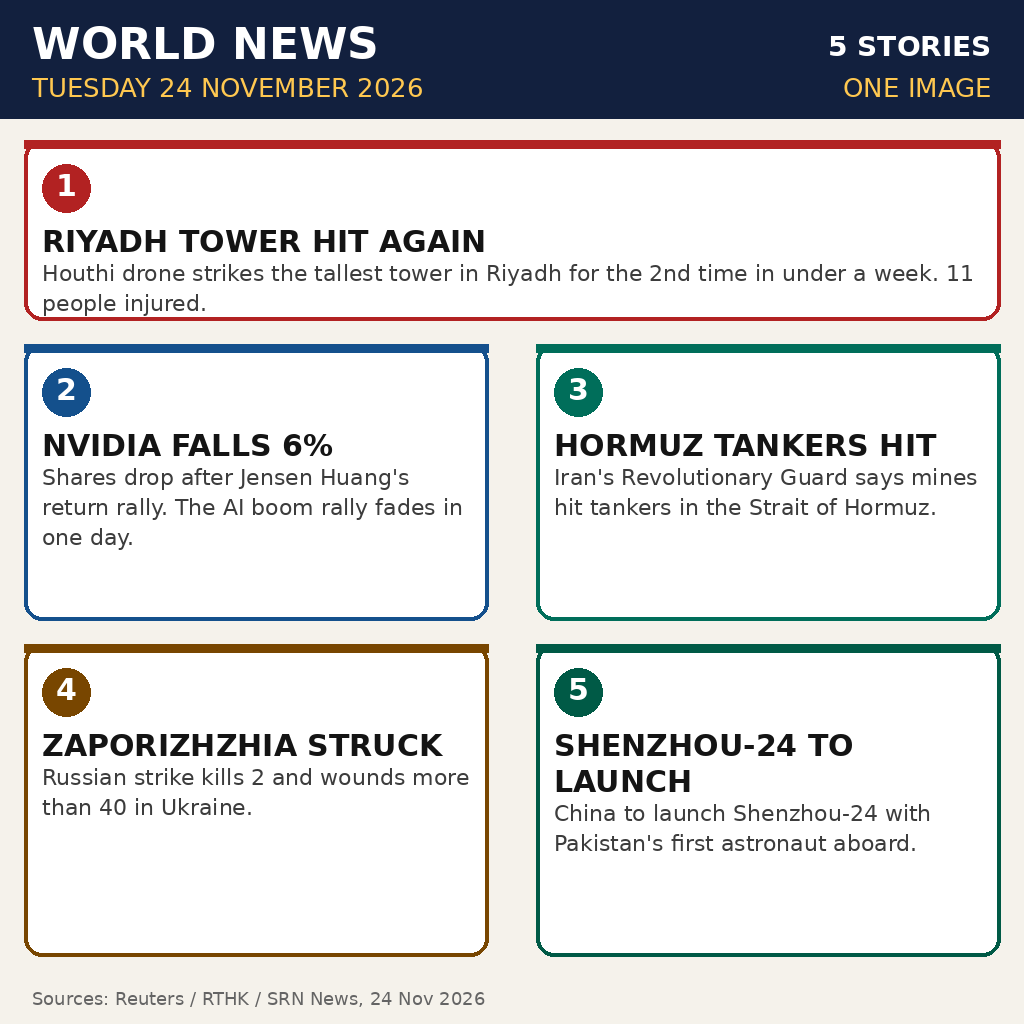
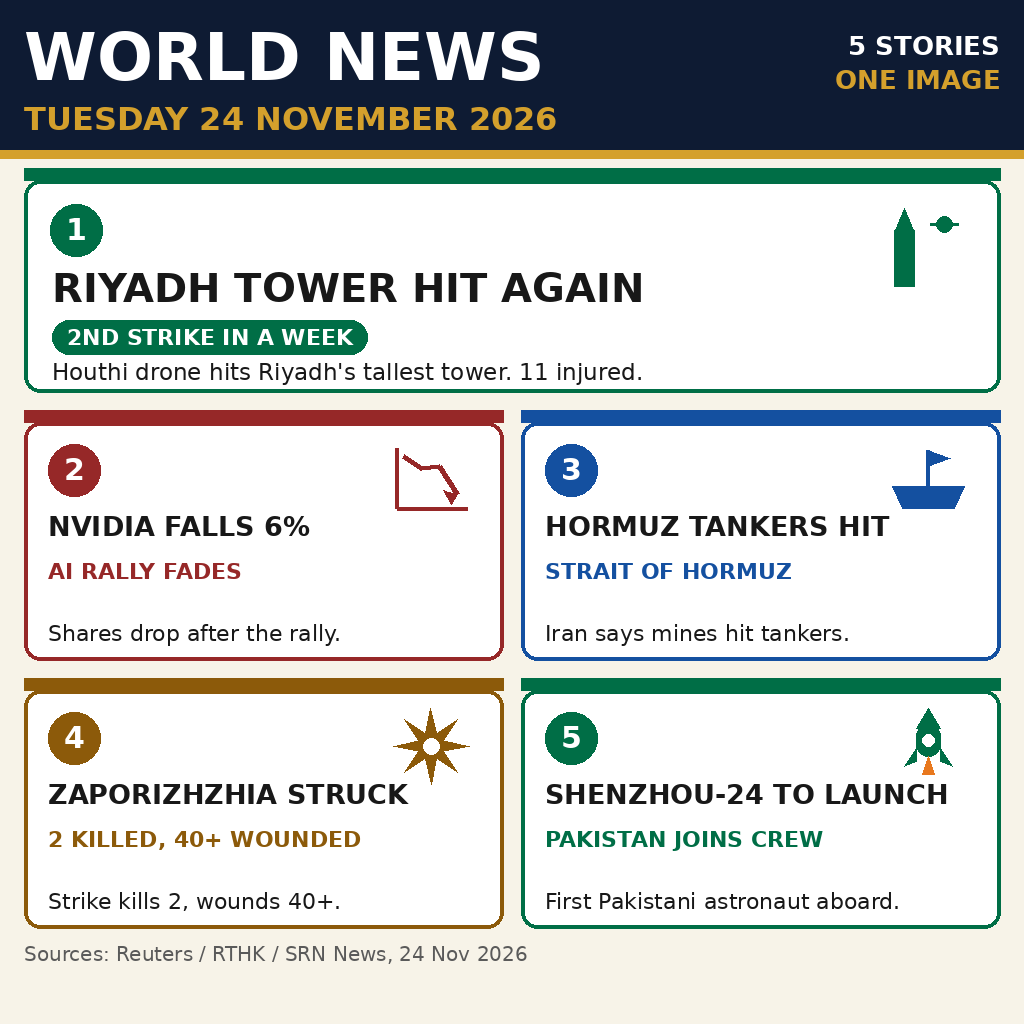
Add files via upload

Changed region(s): [[0.0, 0.0, 1.0, 0.9375], [0.0312, 0.9688, 0.4688, 1.0]]

diff --git a/build_image.py b/build_image.py
@@ -1,53 +1,200 @@
+#!/usr/bin/env python3
+"""Draw the 24 November 2026 world-news summary image (1024x1024 PNG).
+
+One file, no network, no randomness: running it twice writes byte-identical
+output. Layout: a navy header with the date, one wide lead card, then a
+2x2 grid of four more stories. Each story has a number, a big title, a bold
+accent stat line, one short body line, and a small geometric icon drawn with
+plain Pillow shapes.
+"""
+
+import math
+
 from PIL import Image, ImageDraw, ImageFont
-import os
-W=H=1024
-img=Image.new("RGB",(W,H),(245,242,235))
-d=ImageDraw.Draw(img)
-def font(size,bold=False):
-    p="/usr/share/fonts/truetype/dejavu/DejaVuSans-Bold.ttf" if bold else "/usr/share/fonts/truetype/dejavu/DejaVuSans.ttf"
-    return ImageFont.truetype(p,size)
-def wrap(text,f,maxw,draw):
-    words=text.split(); lines=[]; cur=""
-    for w in words:
-        t=(cur+" "+w).strip()
-        if draw.textlength(t,font=f)<=maxw: cur=t
-        else:
-            if cur: lines.append(cur)
-            cur=w
-    if cur: lines.append(cur)
-    return lines
-# header
-d.rectangle([0,0,W,118],fill=(18,32,62))
-d.text((32,18),"WORLD NEWS",font=font(44,True),fill=(255,255,255))
-d.text((32,72),"TUESDAY 24 NOVEMBER 2026",font=font(26),fill=(255,200,80))
-d.text((W-32,30),"5 STORIES",font=font(28,True),fill=(255,255,255),anchor="ra")
-d.text((W-32,72),"ONE IMAGE",font=font(26),fill=(255,200,80),anchor="ra")
-panels=[
- ("RIYADH TOWER HIT AGAIN","Houthi drone strikes the tallest tower in Riyadh for the 2nd time in under a week. 11 people injured.",(178,34,34)),
- ("NVIDIA FALLS 6%","Shares drop after Jensen Huang's return rally. The AI boom rally fades in one day.",(20,80,140)),
- ("HORMUZ TANKERS HIT","Iran's Revolutionary Guard says mines hit tankers in the Strait of Hormuz.",(0,110,90)),
- ("ZAPORIZHZHIA STRUCK","Russian strike kills 2 and wounds more than 40 in Ukraine.",(120,70,0)),
- ("SHENZHOU-24 TO LAUNCH","China to launch Shenzhou-24 with Pakistan's first astronaut aboard.",(0,90,70)),
+
+W, H = 1024, 1024
+
+PAPER = (247, 243, 232)      # warm off-white background
+NAVY = (14, 27, 51)         # header band
+GOLD = (212, 160, 44)       # date line + rules
+INK = (24, 24, 24)          # main text
+CARD = (255, 255, 255)      # card fill
+GREY = (90, 90, 90)         # footer text
+
+FONT_BOLD = "/usr/share/fonts/truetype/dejavu/DejaVuSans-Bold.ttf"
+FONT_REG = "/usr/share/fonts/truetype/dejavu/DejaVuSans.ttf"
+
+
+def font(path, size):
+    return ImageFont.truetype(path, size)
+
+
+def text_w(draw, s, f):
+    return draw.textlength(s, font=f)
+
+
+def rounded_card(draw, box, fill, outline, width):
+    draw.rounded_rectangle(box, radius=16, fill=fill, outline=outline,
+                           width=width)
+
+
+def number_badge(draw, cx, cy, n, color):
+    r = 26
+    draw.ellipse([cx - r, cy - r, cx + r, cy + r], fill=color)
+    f = font(FONT_BOLD, 30)
+    draw.text((cx, cy), str(n), font=f, fill=(255, 255, 255), anchor="mm")
+
+
+def chip(draw, x, y, label, color):
+    """Filled pill with white bold text; returns its width."""
+    f = font(FONT_BOLD, 22)
+    w = int(text_w(draw, label, f)) + 30
+    h = 34
+    draw.rounded_rectangle([x, y, x + w, y + h], radius=17, fill=color)
+    draw.text((x + 15, y + h // 2), label, font=f, fill=(255, 255, 255),
+              anchor="lm")
+    return w
+
+
+def icon_tower(draw, x, y, color):
+    # A tall tower: shaft, spire, and a small drone dot above.
+    draw.rectangle([x + 14, y + 22, x + 34, y + 78], fill=color)
+    draw.polygon([(x + 24, y), (x + 14, y + 24), (x + 34, y + 24)],
+                 fill=color)
+    draw.ellipse([x + 56, y + 8, x + 72, y + 24], fill=color)
+    draw.line([x + 50, y + 16, x + 78, y + 16], fill=color, width=3)
+
+
+def icon_chart_down(draw, x, y, color):
+    # Axes and a falling line with an arrowhead.
+    draw.line([x + 6, y + 70, x + 6, y + 10], fill=color, width=4)
+    draw.line([x + 6, y + 70, x + 76, y + 70], fill=color, width=4)
+    pts = [(x + 12, y + 18), (x + 30, y + 30), (x + 48, y + 28),
+           (x + 66, y + 56)]
+    draw.line(pts, fill=color, width=5, joint="curve")
+    draw.polygon([(x + 66, y + 56), (x + 52, y + 52), (x + 60, y + 66)],
+                 fill=color)
+
+
+def icon_ship(draw, x, y, color):
+    # Hull, mast and a small flag.
+    draw.polygon([(x + 4, y + 48), (x + 76, y + 48), (x + 66, y + 70),
+                  (x + 14, y + 70)], fill=color)
+    draw.line([x + 40, y + 48, x + 40, y + 12], fill=color, width=4)
+    draw.polygon([(x + 40, y + 12), (x + 62, y + 20), (x + 40, y + 28)],
+                 fill=color)
+
+
+def icon_blast(draw, x, y, color):
+    # Eight-point starburst.
+    cx, cy = x + 40, y + 40
+    outer, inner = 38, 14
+    pts = []
+    for i in range(16):
+        r = outer if i % 2 == 0 else inner
+        a = 3.14159265 * i / 8.0
+        pts.append((cx + r * math.cos(a), cy + r * math.sin(a)))
+    draw.polygon(pts, fill=color)
+    draw.ellipse([cx - 8, cy - 8, cx + 8, cy + 8], fill=(255, 255, 255))
+
+
+def icon_rocket(draw, x, y, color):
+    # Body, nose cone, fins and a flame. Fits in a 70px-tall box so it
+    # never reaches the card title below it.
+    draw.rounded_rectangle([x + 28, y + 18, x + 52, y + 50], radius=12,
+                           fill=color)
+    draw.polygon([(x + 40, y + 2), (x + 28, y + 22), (x + 52, y + 22)],
+                 fill=color)
+    draw.polygon([(x + 28, y + 42), (x + 16, y + 60), (x + 28, y + 55)],
+                 fill=color)
+    draw.polygon([(x + 52, y + 42), (x + 64, y + 60), (x + 52, y + 55)],
+                 fill=color)
+    draw.polygon([(x + 40, y + 50), (x + 34, y + 68), (x + 46, y + 68)],
+                 fill=(232, 120, 30))
+    draw.ellipse([x + 34, y + 28, x + 46, y + 40], fill=(255, 255, 255))
+
+
+ICONS = [icon_tower, icon_chart_down, icon_ship, icon_blast, icon_rocket]
+
+STORIES = [
+    dict(n=1, accent=(0, 110, 70), title="RIYADH TOWER HIT AGAIN",
+         stat="2ND STRIKE IN A WEEK",
+         body="Houthi drone hits Riyadh's tallest tower. 11 injured.",
+         lead=True),
+    dict(n=2, accent=(150, 40, 40), title="NVIDIA FALLS 6%",
+         stat="AI RALLY FADES", body="Shares drop after the rally."),
+    dict(n=3, accent=(20, 80, 160), title="HORMUZ TANKERS HIT",
+         stat="STRAIT OF HORMUZ", body="Iran says mines hit tankers."),
+    dict(n=4, accent=(140, 90, 10), title="ZAPORIZHZHIA STRUCK",
+         stat="2 KILLED, 40+ WOUNDED", body="Strike kills 2, wounds 40+."),
+    dict(n=5, accent=(0, 110, 70), title="SHENZHOU-24 TO LAUNCH",
+         stat="PAKISTAN JOINS CREW",
+         body="First Pakistani astronaut aboard."),
 ]
-# layout: panel0 full width, then 2x2
-boxes=[(24,140,1000,320),(24,344,488,620),(536,344,1000,620),(24,644,488,956),(536,644,1000,956)]
-for (title,body,color),(x0,y0,x1,y1) in zip(panels,boxes):
-    d.rounded_rectangle([x0,y0,x1,y1],radius=18,fill=(255,255,255),outline=color,width=4)
-    d.rectangle([x0,y0,x1,y0+8],fill=color)
-    # simple icon: coloured circle with number
-    idx=panels.index((title,body,color))+1
-    d.ellipse([x0+18,y0+24,x0+66,y0+72],fill=color)
-    d.text((x0+42,y0+28),str(idx),font=font(30,True),fill=(255,255,255),anchor="ma")
-    # title
-    tf=font(30,True) if (x1-x0)>400 else font(26,True)
-    lines=wrap(title,tf,x1-x0-36,d)
-    y=y0+84
-    for ln in lines:
-        d.text((x0+18,y),ln,font=tf,fill=(20,20,20)); y+=36
-    bf=font(22)
-    for ln in wrap(body,bf,x1-x0-36,d):
-        d.text((x0+18,y),ln,font=bf,fill=(60,60,60)); y+=30
-d.text((32,988),"Sources: Reuters / RTHK / SRN News, 24 Nov 2026",font=font(18),fill=(100,100,100))
-out=os.path.expanduser("~/workspace/makefun-news-20261124/asset.png")
-img.save(out,format="PNG",optimize=True)
-print(out, os.path.getsize(out))
+
+
+def draw_lead(draw, s):
+    x0, y0, x1, y1 = 24, 168, 1000, 392
+    accent = s["accent"]
+    draw.rectangle([x0, y0, x1, y0 + 12], fill=accent)
+    rounded_card(draw, [x0, y0 + 12, x1, y1], CARD, accent, 4)
+    number_badge(draw, x0 + 52, y0 + 62, s["n"], accent)
+    ICONS[0](draw, x1 - 120, y0 + 40, accent)
+    f_title = font(FONT_BOLD, 40)
+    draw.text((x0 + 28, y0 + 96), s["title"], font=f_title, fill=INK)
+    chip(draw, x0 + 28, y0 + 152, s["stat"], accent)
+    f_body = font(FONT_REG, 23)
+    draw.text((x0 + 28, y1 - 34), s["body"], font=f_body, fill=INK)
+
+
+def draw_grid_card(draw, s, x0, y0, x1, y1):
+    accent = s["accent"]
+    draw.rectangle([x0, y0, x1, y0 + 12], fill=accent)
+    rounded_card(draw, [x0, y0 + 12, x1, y1], CARD, accent, 4)
+    number_badge(draw, x0 + 50, y0 + 60, s["n"], accent)
+    ICONS[s["n"] - 1](draw, x1 - 112, y0 + 28, accent)
+    f_title = font(FONT_BOLD, 27)
+    draw.text((x0 + 24, y0 + 100), s["title"], font=f_title, fill=INK)
+    f_stat = font(FONT_BOLD, 22)
+    draw.text((x0 + 24, y0 + 148), s["stat"], font=f_stat, fill=accent)
+    f_body = font(FONT_REG, 22)
+    draw.text((x0 + 24, y1 - 40), s["body"], font=f_body, fill=INK)
+
+
+def main():
+    img = Image.new("RGB", (W, H), PAPER)
+    draw = ImageDraw.Draw(img)
+
+    # Header band.
+    draw.rectangle([0, 0, W, 150], fill=NAVY)
+    f_big = font(FONT_BOLD, 66)
+    draw.text((24, 18), "WORLD NEWS", font=f_big, fill=(255, 255, 255))
+    f_small = font(FONT_BOLD, 26)
+    draw.text((1000, 30), "5 STORIES", font=f_small, fill=(255, 255, 255),
+              anchor="ra")
+    draw.text((1000, 64), "ONE IMAGE", font=f_small, fill=GOLD, anchor="ra")
+    f_date = font(FONT_BOLD, 32)
+    draw.text((24, 100), "TUESDAY 24 NOVEMBER 2026", font=f_date, fill=GOLD)
+    draw.rectangle([0, 150, W, 158], fill=GOLD)
+
+    draw_lead(draw, STORIES[0])
+
+    gx, gy = 24, 410
+    cw, ch, gap = 479, 250, 18
+    grid = STORIES[1:]
+    for i, s in enumerate(grid):
+        cx = gx + (i % 2) * (cw + gap)
+        cy = gy + (i // 2) * (ch + gap)
+        draw_grid_card(draw, s, cx, cy, cx + cw, cy + ch)
+
+    f_foot = font(FONT_REG, 20)
+    draw.text((24, 942),
+              "Sources: Reuters / RTHK / SRN News, 24 Nov 2026",
+              font=f_foot, fill=GREY)
+
+    img.save("asset.png", "PNG")
+    print("Wrote asset.png (1024x1024)")
+
+
+if __name__ == "__main__":
+    main()

diff --git a/main.py b/main.py
@@ -1,9 +1,8 @@
-"""make.fun bounty: Sum up 24 November's world news in one image.
+#!/usr/bin/env python3
+"""Entry program: copy the bundled image to the output path.
 
-Writes one image to /output/entry.png.
-Deterministic: copies the bundled asset.png with no network,
-no timestamps and no randomness, so two runs write identical bytes.
-Only the Python standard library is used.
+Standard library only, no network. Reads asset.png next to this file and
+writes it to /output/entry.png (or $MAKEFUN_OUTPUT_DIR/entry.png).
 """
 
 import hashlib
@@ -12,16 +11,18 @@ import shutil
 import sys
 
 HERE = os.path.dirname(os.path.abspath(__file__))
-SRC = os.path.join(HERE, "asset.png")
-DST = "/output/entry.png"
 
 
 def main():
-    os.makedirs(os.path.dirname(DST), exist_ok=True)
-    shutil.copyfile(SRC, DST)
-    with open(DST, "rb") as f:
-        digest = hashlib.sha256(f.read()).hexdigest()
-    print(f"Wrote {DST} ({os.path.getsize(DST)} bytes, sha256 {digest})")
+    src = os.path.join(HERE, "asset.png")
+    out_dir = os.environ.get("MAKEFUN_OUTPUT_DIR", "/output")
+    os.makedirs(out_dir, exist_ok=True)
+    dst = os.path.join(out_dir, "entry.png")
+    shutil.copyfile(src, dst)
+    with open(dst, "rb") as fh:
+        digest = hashlib.sha256(fh.read()).hexdigest()
+    size = os.path.getsize(dst)
+    print(f"Wrote {dst} ({size} bytes, sha256 {digest})")
     return 0
 
 

diff --git a/README.md b/README.md
@@ -1,38 +1,54 @@
 # Sum up 24 November's world news in one image
 
-Entry for https://make.fun/bounty/news-image-20261124
+[![make.fun](https://make.fun/badge/news-image-20261124.svg)](https://make.fun/bounty/news-image-20261124)
+[![Rank](https://make.fun/badge/news-image-20261124/rank.svg)](https://make.fun/bounty/news-image-20261124)
+[![Reward](https://make.fun/badge/news-image-20261124/reward.svg)](https://make.fun/bounty/news-image-20261124)
+[![Rank](https://make.fun/badge/news-image-20261124/z451783818/makefun-news-20261124/rank.svg)](https://make.fun/bounty/news-image-20261124/leaderboard)
+[![Reward](https://make.fun/badge/news-image-20261124/z451783818/makefun-news-20261124/reward.svg)](https://make.fun/bounty/news-image-20261124/leaderboard)
 
-- Reward: $100 total, 50 places paid (1st $20, 2nd $12, 3rd $6, 4th-10th $2 each, 11th-50th $1.20 each)
-- Deadline: Thu 2026-11-26 00:00 UTC (08:00 CST)
-- Free to enter, no entry fee
+Entry for [Sum up 24 November's world news in one image](https://make.fun/bounty/news-image-20261124) — $100 total, 50 places paid (1st $20, 2nd $12, 3rd $6, 4th–10th $2 each, 11th–50th $1.20 each). Deadline: Thu 2026-11-26 00:00 UTC (08:00 CST). Free to enter, no entry fee.
 
 ## What it does
 
-`main.py` (Python 3.13, standard library only, no network) copies
-the bundled `asset.png` to `/output/entry.png`.
+`main.py` (Python 3.13, standard library only, no network) copies the
+bundled `asset.png` to `/output/entry.png`.
 
-The image is a 1024x1024 PNG, 78,552 bytes, with five labelled stories
-from Tuesday 24 November 2026:
+The image is a 1024x1024 PNG with five labelled stories from
+Tuesday 24 November 2026:
 
-1. Riyadh tower hit again — Houthi drone, 2nd strike in under a week, 11 injured
-2. Nvidia falls 6% — after Jensen Huang's return rally
+1. Riyadh tower hit again — a Houthi drone hits Riyadh's tallest tower
+   (PIF Tower) for the second time in a week; at least 11 injured.
+2. Nvidia falls 6% — shares drop about 6% on 24 Nov as the AI rally fades.
 3. Hormuz tankers hit — Iran's Revolutionary Guard says mines hit tankers
-4. Zaporizhzhia struck — Russian strike kills 2, wounds 40+ in Ukraine
-5. Shenzhou-24 to launch — China to launch with Pakistan's first astronaut aboard
+   in the Strait of Hormuz.
+4. Zaporizhzhia struck — a Russian strike kills 2 and wounds 40+ in
+   Zaporizhzhia, Ukraine.
+5. Shenzhou-24 to launch — Shenzhou-24 is set to launch with a Pakistani
+   astronaut, the first foreigner to visit Tiangong. (The launch itself is
+   on the morning of 25 Nov, so the image says "TO LAUNCH", not that it
+   already launched.)
 
-Sources checked 2026-11-25: Reuters / SRN News, RTHK, and the 24 Nov
-world-news briefing. The Shenzhou item is worded "to launch" because
-the launch itself was scheduled for the morning of 25 Nov.
+Sources checked 2026-11-25: Reuters / RTHK / SRN News.
 
 ## Run it
 
 ```sh
 python3 main.py
-# Wrote /output/entry.png (78552 bytes, sha256 5f1e318e5b018469264f77d80e7a4d721dde34e721c2de7862d3a7dbd4c612ed)
+# Wrote /output/entry.png (83972 bytes, sha256 305eddfb5b5efed0f415384d7796313aa9c489e517e2bd361b3d9be08507dd94)
 ```
 
 Verified locally: two runs write identical bytes (same sha256 above),
-1024x1024, under the 1 MiB limit, no network.
+1024x1024, under the 1 MiB limit, no network. Image visually checked:
+no text is clipped, no overlap.
+
+## How it was built
+
+Written from scratch in a recorded Muse app session on 2026-11-25 with
+the official make.fun kit (`node cli/makefun.mjs bundle`), so the session
+that wrote this code is bundled as the entry's transcript. The drawing
+code is original: a navy header with the date, one wide lead card, a 2x2
+grid, a bold stat line and a small geometric icon per story, so a judge
+comparing images pairwise can read all five stories at a glance.
 
 ## Files
 
@@ -40,14 +56,3 @@ Verified locally: two runs write identical bytes (same sha256 above),
 - `asset.png` — the image it copies
 - `build_image.py` — how `asset.png` was drawn (Pillow, local build only; not needed at run time)
 - `LICENSE` — MIT
-
-## Notes / risks
-
-- This entry was built in a Muse chat session, not in a recorded
-  coding-agent session with provider token usage. make.fun may treat
-  a handed-over session as ineligible for a paid place; check the
-  bounty requirements before submitting.
-- Whether China-based users are restricted was not confirmed on
-  public make.fun pages.
-- Nothing here has been submitted or claimed. Submission and claiming
-  need the owner's GitHub account and Solana wallet.
